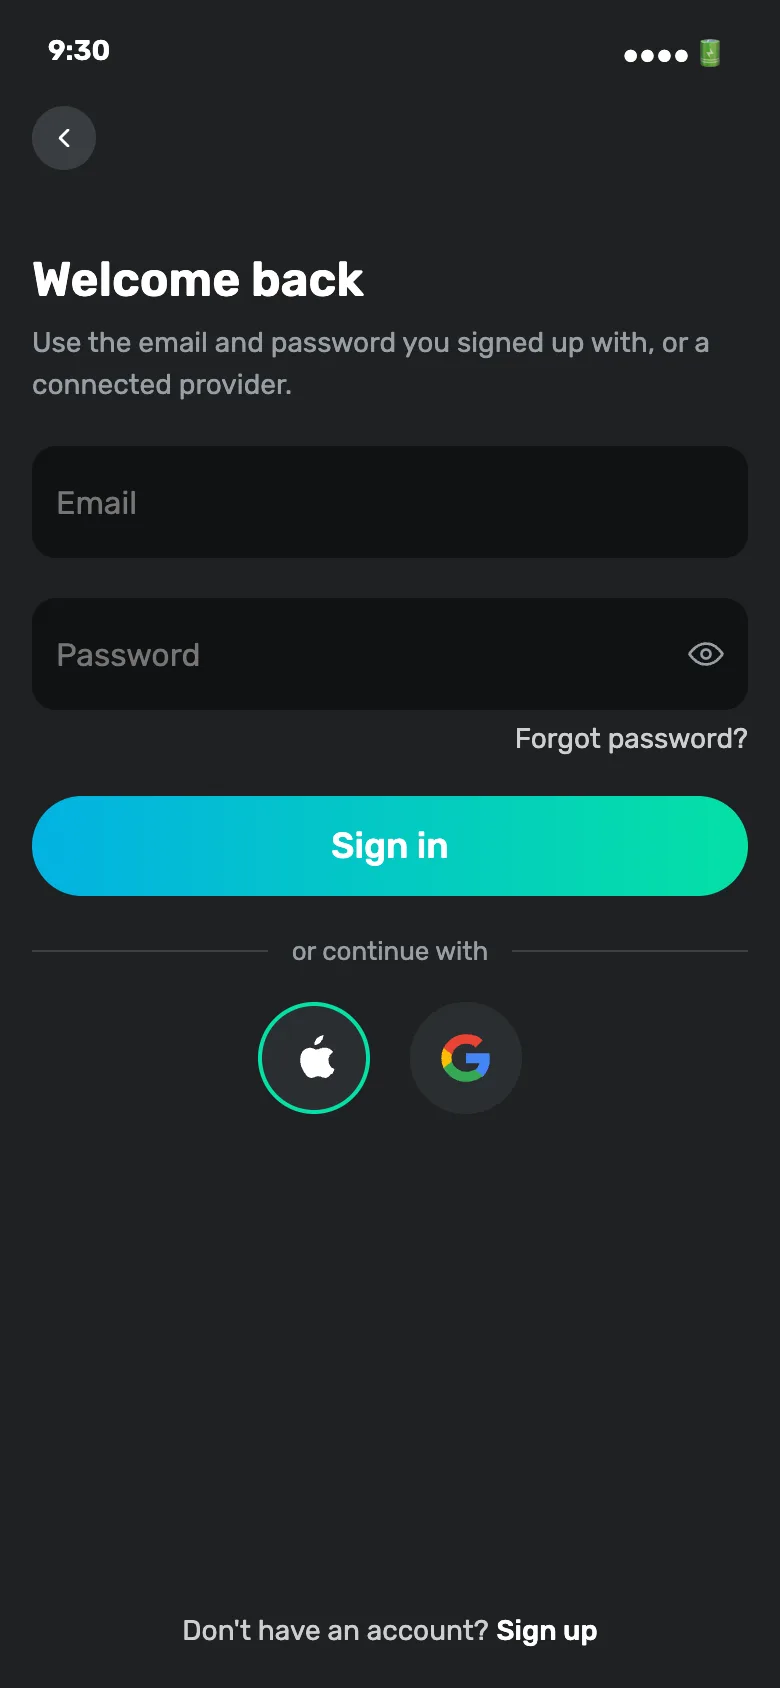
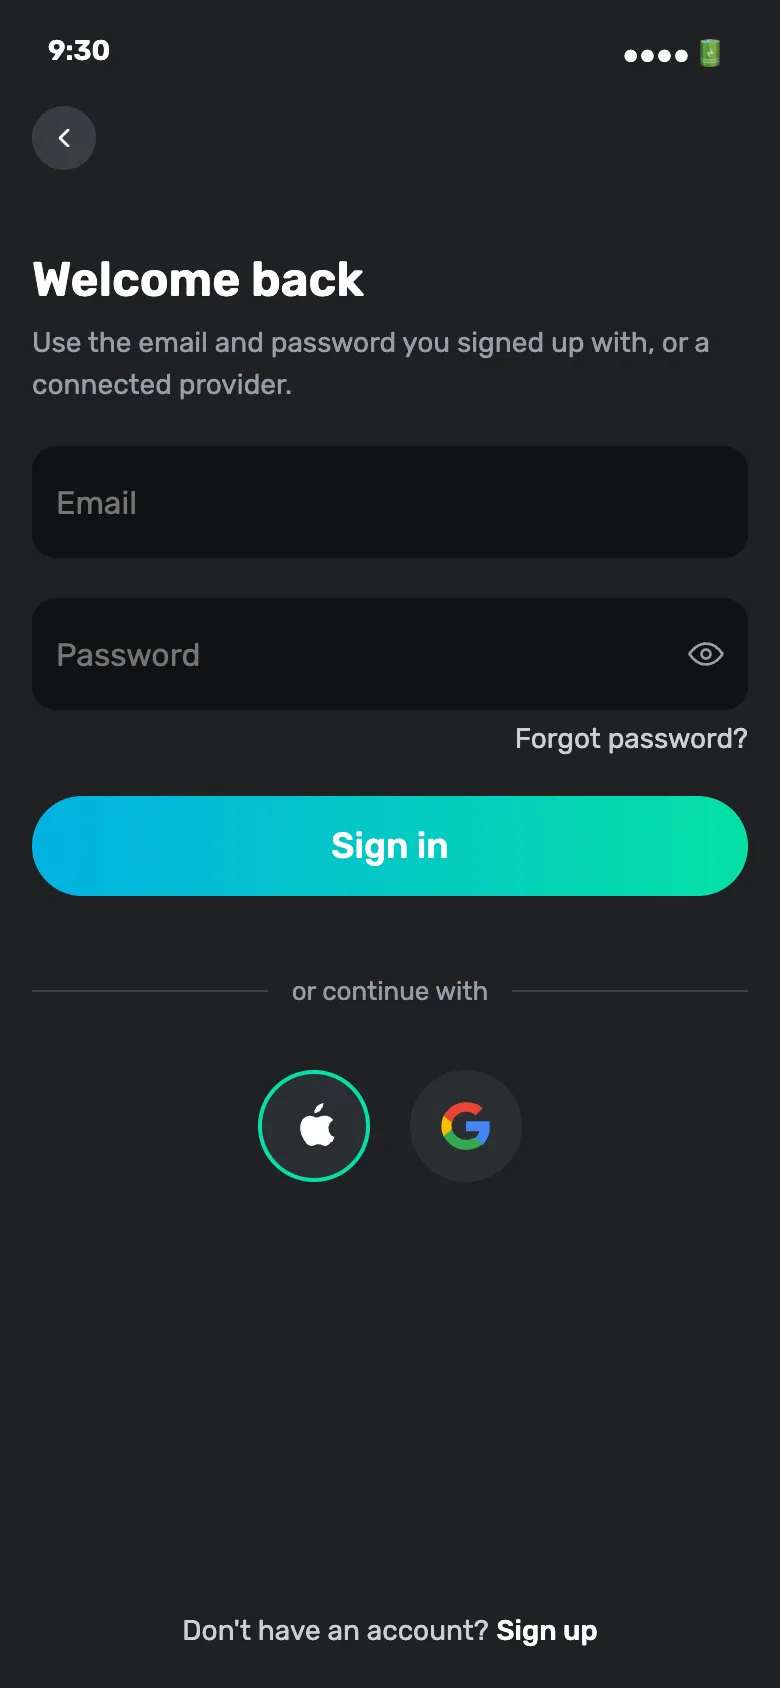
Auth: give the "or continue with" rule room to separate
Doubled the space above and below it — 20/14 to 40/28. A divider whose whole
job is to say "different kind of thing below" cannot do that while it is glued
to what sits on either side of it: at the old spacing the rule read as part of
the CTA's block rather than as the seam between two groups.

Changed region(s): [[0.3077, 0.5545, 0.6462, 0.7085]]

diff --git a/prototypes/board/board-data.js b/prototypes/board/board-data.js
@@ -10,7 +10,7 @@ window.FIT_BOARD = {
       "screens": [
         {
           "id": "s-role-pick",
-          "hash": "05f12acf169c",
+          "hash": "159ce4f3dfda",
           "title": "Role pick",
           "inApp": "",
           "status": "canon",
@@ -29,7 +29,7 @@ window.FIT_BOARD = {
         },
         {
           "id": "s-signup-email",
-          "hash": "0935554a7070",
+          "hash": "4ec031edfe56",
           "title": "Sign up",
           "inApp": "",
           "status": "canon",
@@ -48,7 +48,7 @@ window.FIT_BOARD = {
         },
         {
           "id": "s-signin-email",
-          "hash": "7e371426c850",
+          "hash": "3a3cfb9056ae",
           "title": "Sign in",
           "inApp": "",
           "status": "canon",
@@ -67,7 +67,7 @@ window.FIT_BOARD = {
         },
         {
           "id": "s-signin-circles",
-          "hash": "5a40af50aa0e",
+          "hash": "a42e341ffbb0",
           "title": "Sign in · circles (variant)",
           "inApp": "",
           "status": "proposal",
@@ -87,7 +87,7 @@ window.FIT_BOARD = {
         },
         {
           "id": "s-forgot-email",
-          "hash": "9c398bc201d5",
+          "hash": "bdea1a705b1b",
           "title": "Step 1 · enter email",
           "inApp": "",
           "status": "canon",
@@ -106,7 +106,7 @@ window.FIT_BOARD = {
         },
         {
           "id": "s-forgot-otp",
-          "hash": "ab29fd8a04f5",
+          "hash": "7711e30cb530",
           "title": "Step 2 · OTP code",
           "inApp": "",
           "status": "canon",
@@ -125,7 +125,7 @@ window.FIT_BOARD = {
         },
         {
           "id": "s-forgot-new",
-          "hash": "7931aa98cd9e",
+          "hash": "579b1b89eed1",
           "title": "Step 3 · new password",
           "inApp": "",
           "status": "canon",
@@ -144,7 +144,7 @@ window.FIT_BOARD = {
         },
         {
           "id": "s-phone-enter",
-          "hash": "a7c69d5c99f2",
+          "hash": "fedfbffd72cb",
           "title": "Phone · enter number",
           "inApp": "",
           "status": "canon",
@@ -164,7 +164,7 @@ window.FIT_BOARD = {
         },
         {
           "id": "s-phone-otp",
-          "hash": "05234d8264fb",
+          "hash": "00a5d5c9b344",
           "title": "Phone · OTP code",
           "inApp": "",
           "status": "canon",
@@ -184,7 +184,7 @@ window.FIT_BOARD = {
         },
         {
           "id": "s-country-picker",
-          "hash": "f4e8c28fe225",
+          "hash": "cb19a5a117f9",
           "title": "Country picker",
           "inApp": "Country or region",
           "status": "canon",

diff --git a/prototypes/flows/shared/auth.html b/prototypes/flows/shared/auth.html
@@ -267,7 +267,7 @@
      fit-ui.css has no divider-with-text family (grepped before writing this). */
   .au-or {
     display: flex; align-items: center; gap: 12px;
-    padding: 20px 16px 14px;
+    padding: 40px 16px 28px;
     font-size: 13px; color: var(--fit-text-tertiary);
   }
   .au-or::before, .au-or::after {
